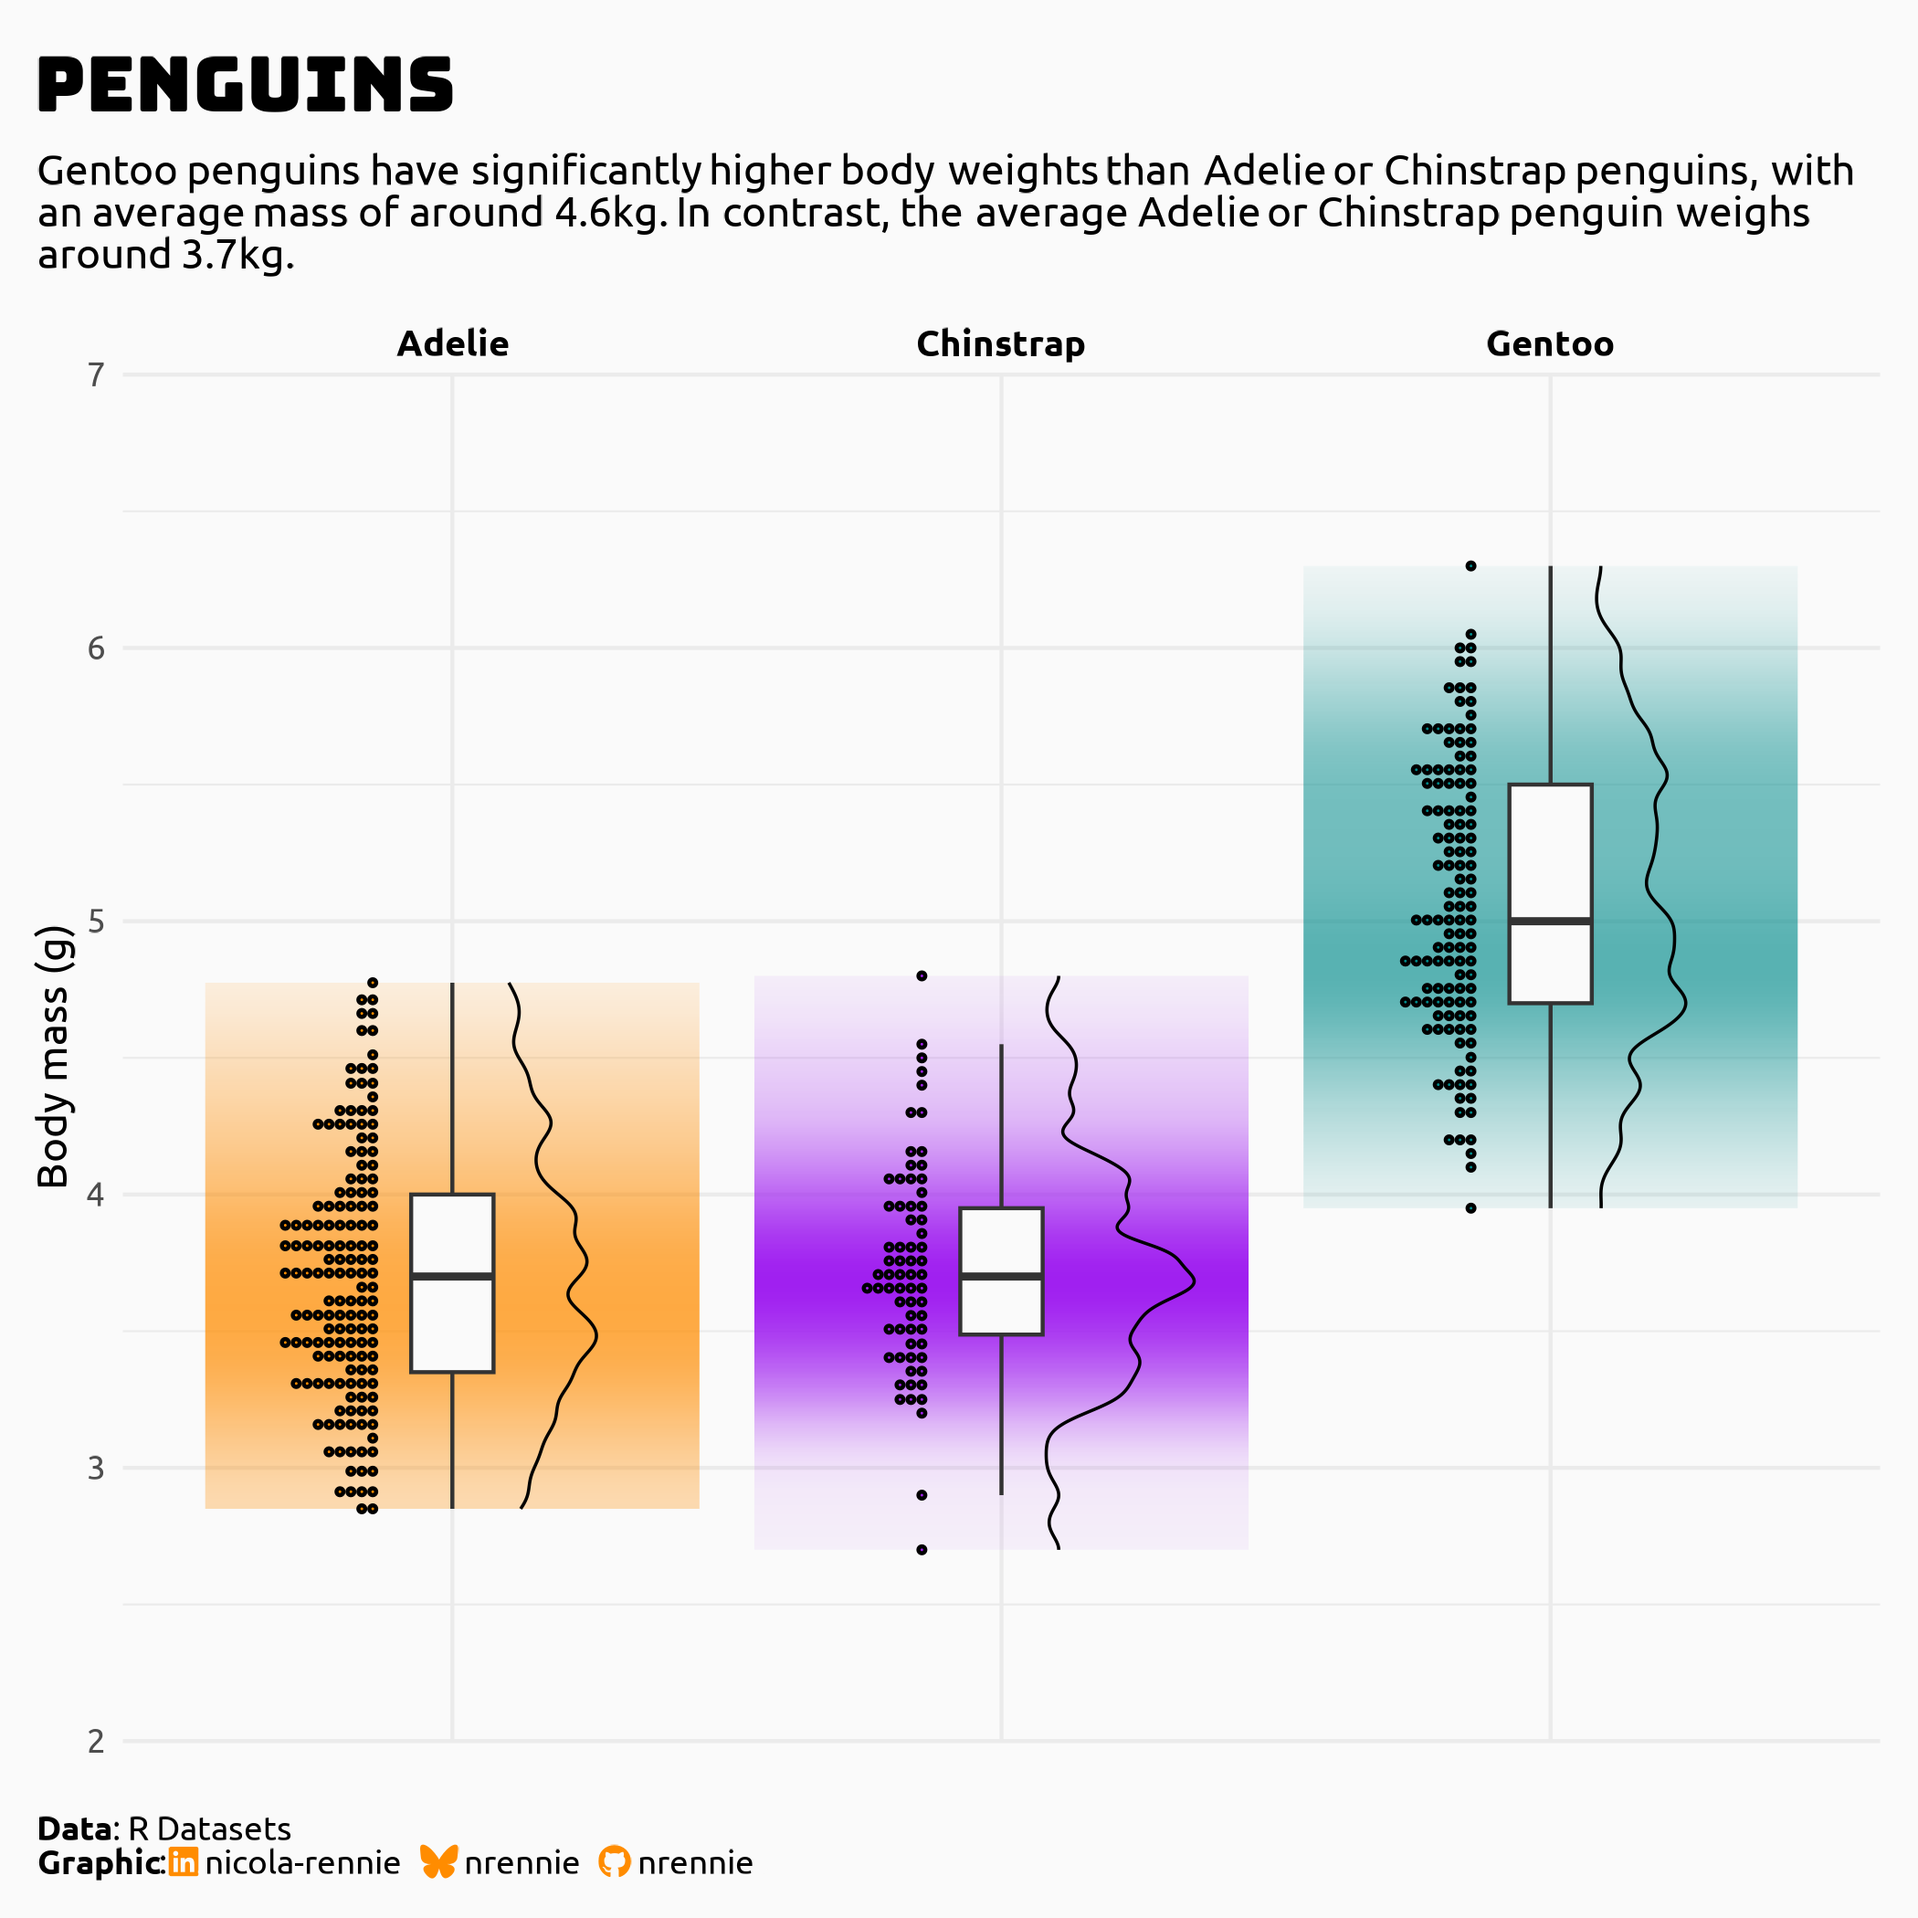
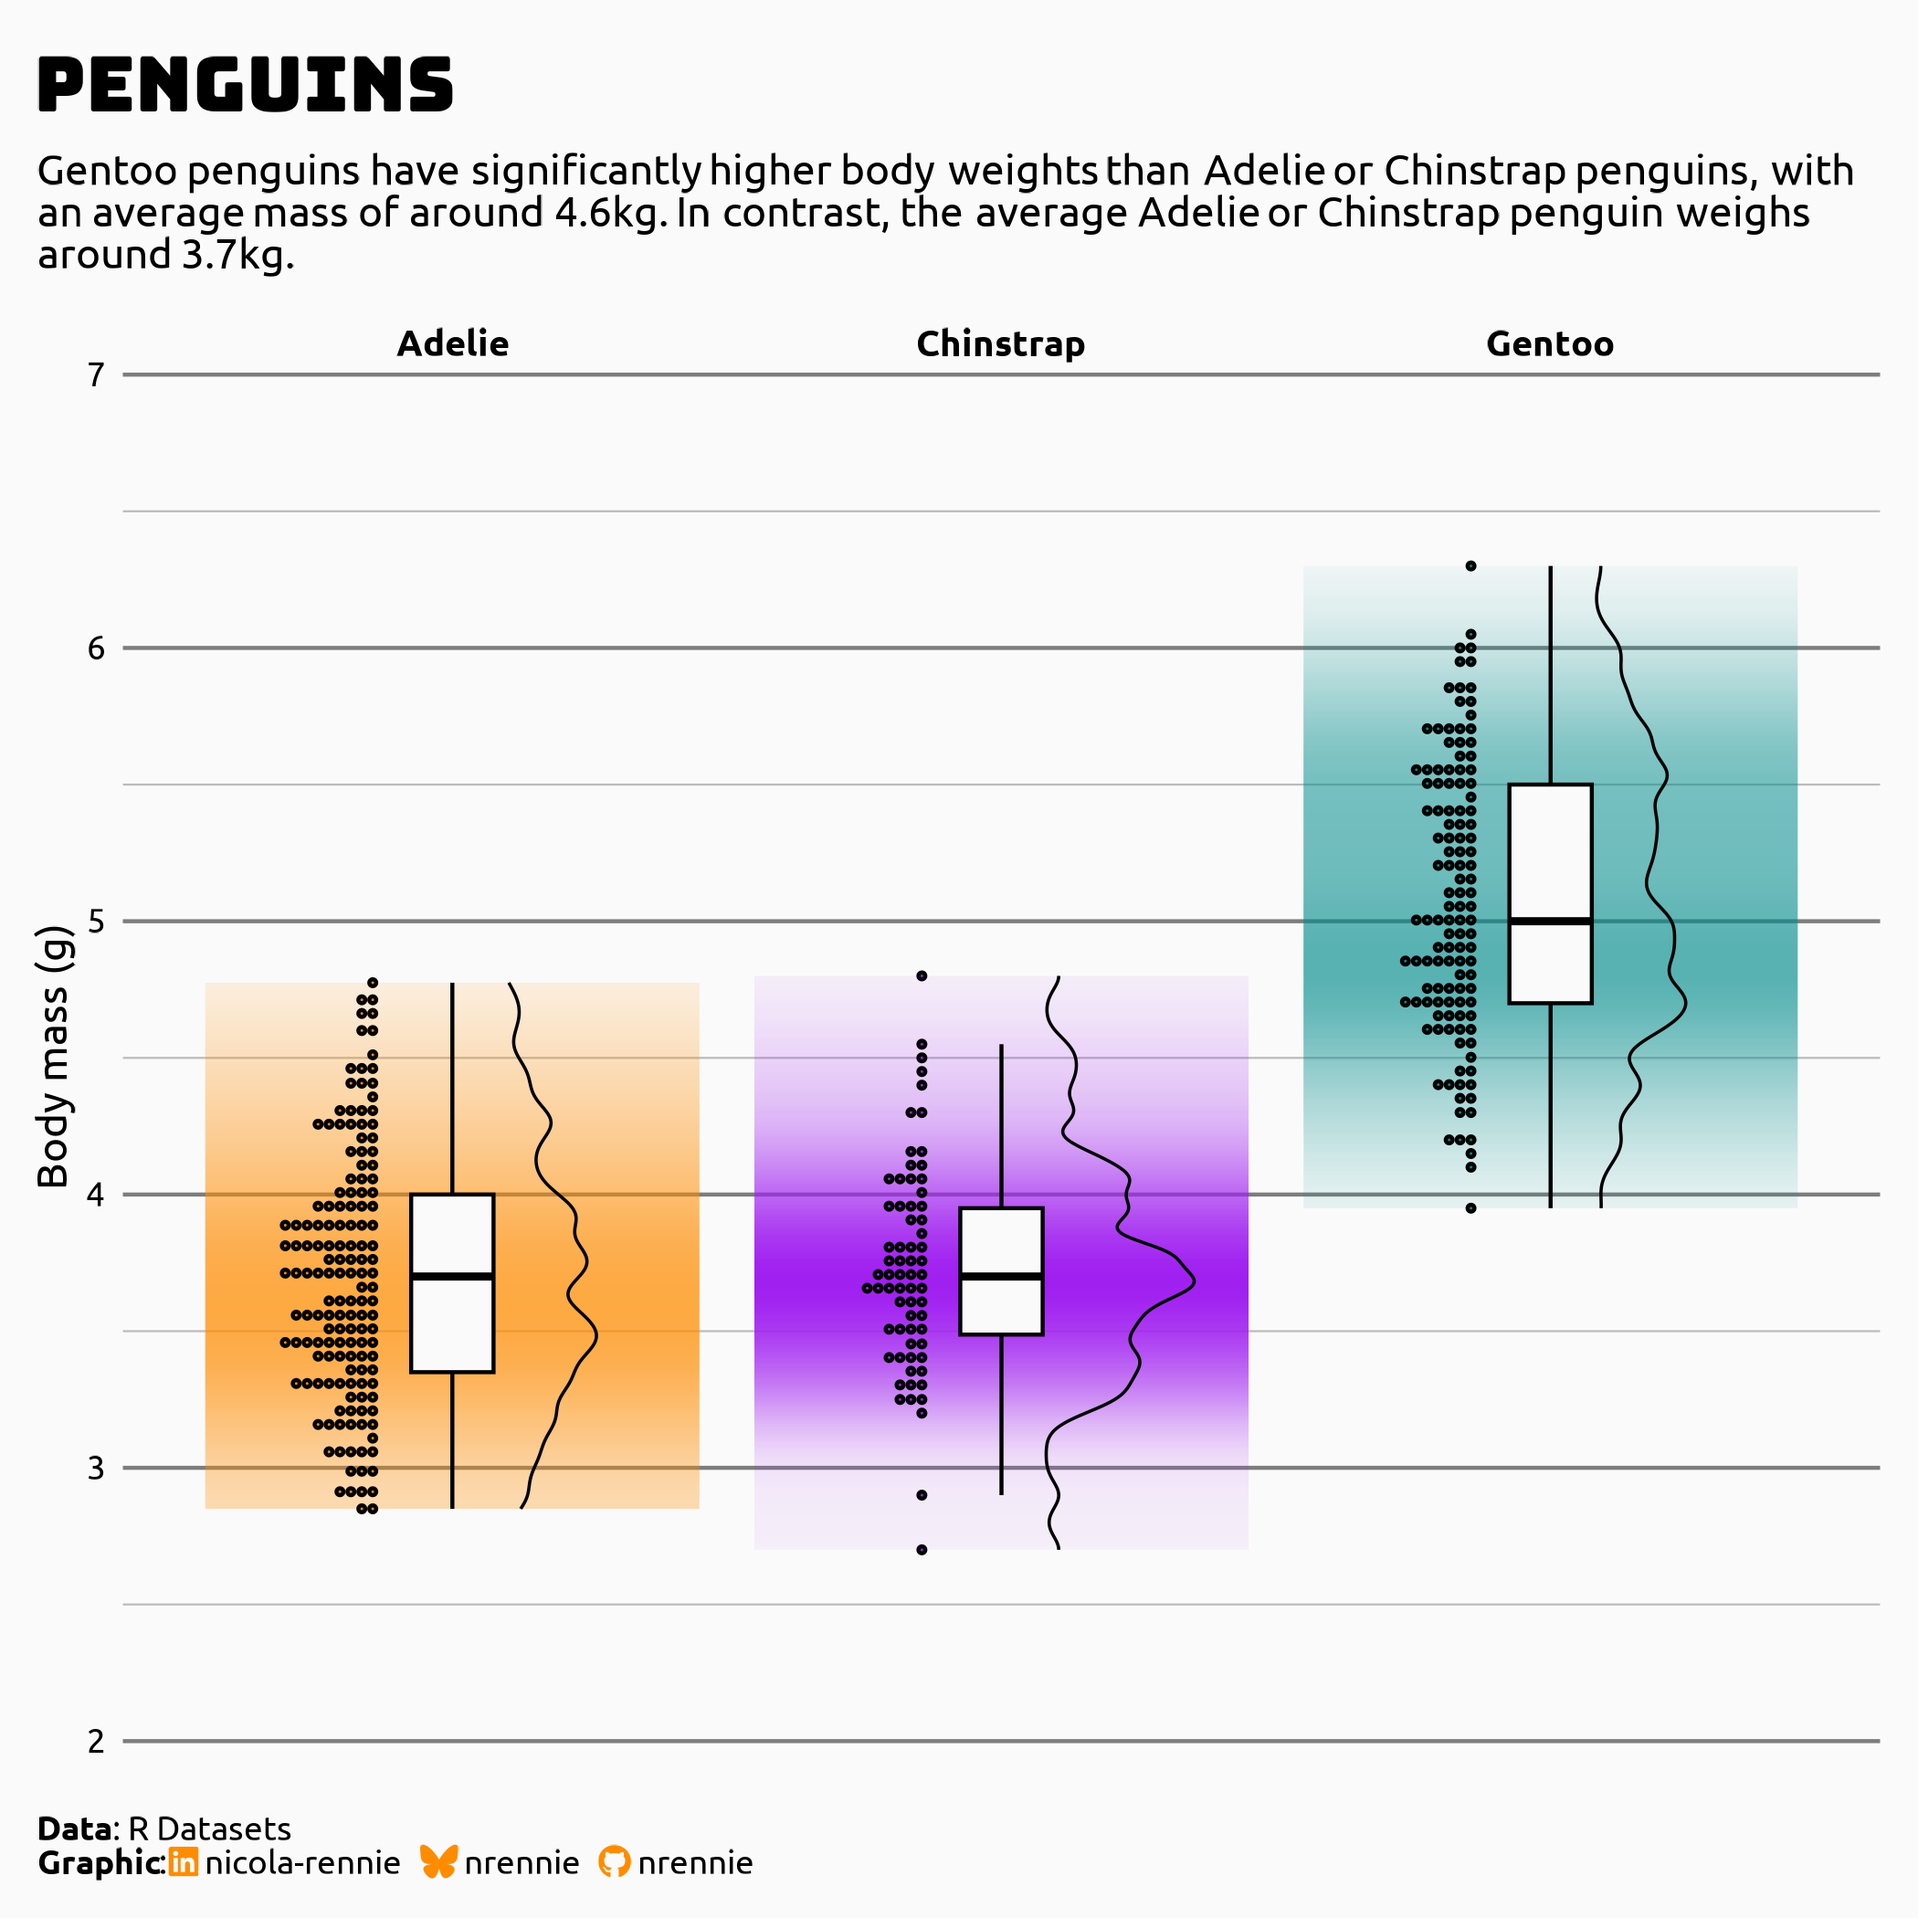
update penguins

diff --git a/2025/2025-04-15/README.md b/2025/2025-04-15/README.md
@@ -4,6 +4,10 @@
   <img src="/2025/2025-04-15/20250415.png" width="60%">
 </p>
 
+<p align="center">
+  <img src="/2025/2025-04-15/20250415_dark.png" width="60%">
+</p>
+
 The making of this visualisation was also recorded using the {camcorder} package.
 
 <p align="center">
